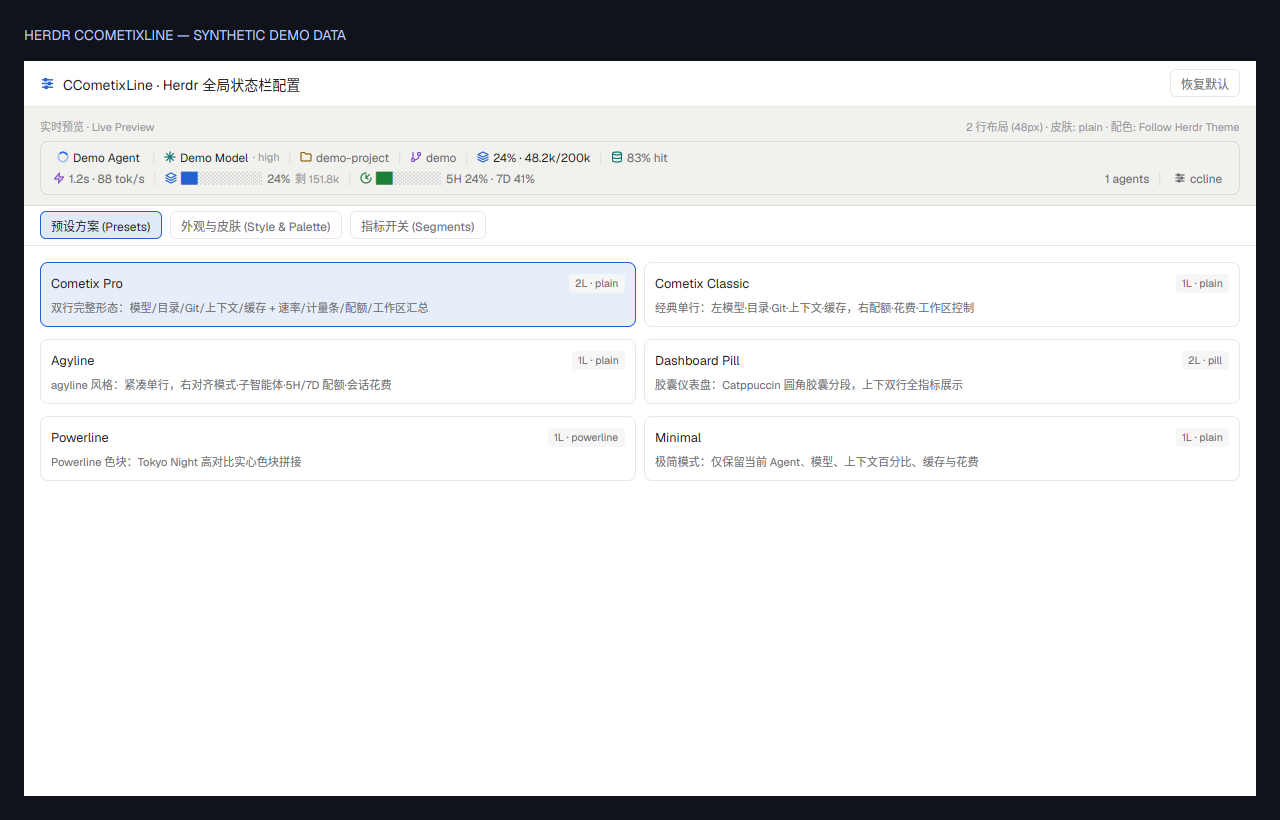
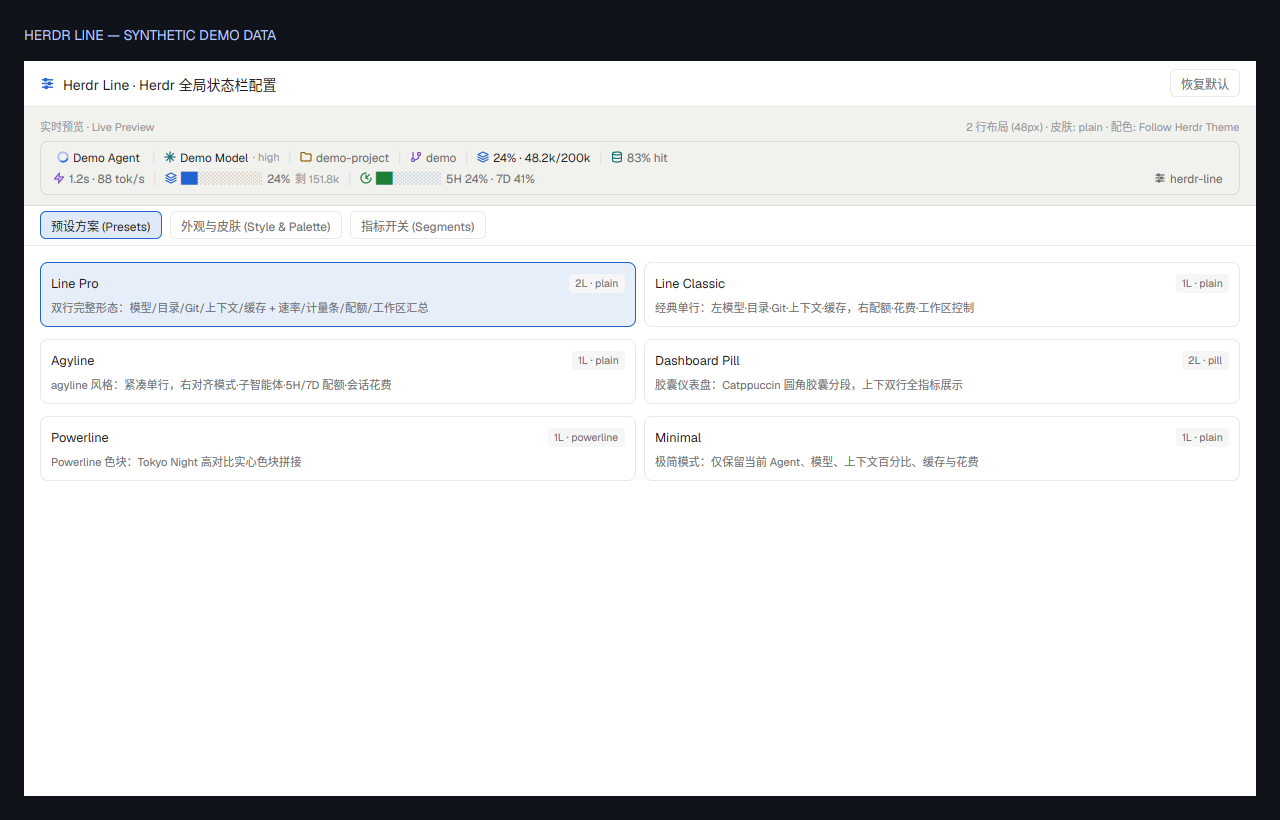
Rebrand as Herdr Line with compatible identifiers and refreshed preview

diff --git a/mods/ccline/main.js b/mods/ccline/main.js
@@ -1,4 +1,4 @@
-// Herdr-native CCometixLine plugin:
+// Herdr-native Herdr Line plugin:
 //   1. Workspace bottom status bar (auto-tracks any active Agent across tabs/panes)
 //   2. Full interactive Configurator & Live Preview dialog (`mod.open { name: "ccline" }`)
 import { View, div, svg, image } from "gpui-kit";
@@ -37,6 +37,7 @@ import {
   buildStatusModel,
 } from "./layout.js";
 
+// Legacy persisted keys and mod ID are retained for existing installations.
 const CONFIG_KEY = "ccline.config";
 const SNAPSHOT_KEY = "ccline.snapshot";
 
@@ -65,7 +66,7 @@ function looksLikeAgent(paneOrTerm) {
   return /(claude|codex|devin|antigravity|\bagy\b|\bpi\b|\bomp\b|grok|cursor|opencode|kiro|aider)/.test(s);
 }
 
-export default class HerdrCcline extends View {
+export default class HerdrLine extends View {
   init(_props, cx) {
     this.widthPx = 1120;
     this.busy = false;
@@ -485,8 +486,8 @@ export default class HerdrCcline extends View {
     const sampleCollected = snap.collected || {
       adapter: "claude-code",
       source: "preview",
-      sessionId: "ccline-live-preview",
-      cwd: `${home()}/herdr-ccline`,
+      sessionId: "herdr-line-demo-preview",
+      cwd: `${home()}/demo-project`,
       model: { id: "claude-opus-5-5[1m]", displayName: "Opus 5.5 1M", effort: "xHigh", family: "claude", window: 1000000 },
       context: { tokens: 142800, window: 1000000, percent: 14.3, inputTokens: 8200, cacheReadTokens: 134600, outputTokens: 1240 },
       cache: { hitRatio: 94.2, warm: true, expiresAt: Date.now() / 1000 + 262 },
@@ -640,7 +641,7 @@ export default class HerdrCcline extends View {
     const paletteRows = [paletteIds.slice(0, 4), paletteIds.slice(4)];
 
     return v_flex()
-      .id("ccline-configurator")
+      .id("herdr-line-configurator")
       .size_full()
       .bg(t.popover || t.background)
       .text_color(t.foreground)
@@ -659,7 +660,7 @@ export default class HerdrCcline extends View {
               .gap(8)
               .items_center()
               .child(svg("mods/ccline/icons/sliders.svg").size(15).text_color(t.accent))
-              .child(div().text_size(14).font_semibold().child("CCometixLine · Herdr 全局状态栏配置"))
+              .child(div().text_size(14).font_semibold().child("Herdr Line · Herdr 全局状态栏配置"))
           )
           .child(
             h_flex()
@@ -830,7 +831,7 @@ export default class HerdrCcline extends View {
     });
 
     return div()
-      .id("herdr-ccline-bar")
+      .id("herdr-line-bar")
       .size_full()
       .on_size_change((size, cx) => {
         const logicalWidth = Math.round(size.width / zoom);

diff --git a/mods/ccline/layout.js b/mods/ccline/layout.js
@@ -1,10 +1,11 @@
-// Pure CCometixLine layout, preset, palette, skin, and responsive fit engine.
+// Pure Herdr Line layout, preset, palette, skin, and responsive fit engine.
+// Visual design inspiration: CCometixLine; persisted preset IDs stay compatible.
 // Zero host-module imports so this module runs identically inside Herdr (gpui-kit) and Node tests.
 
 export const PRESETS = [
   {
     id: "cometix-pro",
-    name: "Cometix Pro",
+    name: "Line Pro",
     lines: 2,
     height: 48,
     skin: "plain",
@@ -14,7 +15,7 @@ export const PRESETS = [
   },
   {
     id: "cometix",
-    name: "Cometix Classic",
+    name: "Line Classic",
     lines: 1,
     height: 30,
     skin: "plain",
@@ -928,9 +929,9 @@ export function buildStatusModel({
       priority: 5,
       icon: "mods/ccline/icons/sliders.svg",
       action: "open-config",
-      tooltip: "打开 CCometixLine 可视化配置器 (预设 / 皮肤 / 配色 / 指标开关)",
+      tooltip: "打开 Herdr Line 可视化配置器 (预设 / 皮肤 / 配色 / 指标开关)",
       variants: [
-        { icon: "mods/ccline/icons/sliders.svg", text: "ccline" },
+        { icon: "mods/ccline/icons/sliders.svg", text: "herdr-line" },
         { icon: "mods/ccline/icons/sliders.svg", text: "" },
         { icon: "mods/ccline/icons/sliders.svg", text: "" },
       ],

diff --git a/extensions/herdr-ccline.ts b/extensions/herdr-ccline.ts
@@ -98,7 +98,7 @@ function publish(ctx: ExtensionContext): void {
   });
 }
 
-export default function herdrCclineExtension(pi: ExtensionAPI): void {
+export default function herdrLineExtension(pi: ExtensionAPI): void {
   if (!VALID_TERMINAL) return;
   const emit = (_event: unknown, ctx: ExtensionContext) => {
     try {

diff --git a/scripts/install.py b/scripts/install.py
@@ -1,5 +1,5 @@
 #!/usr/bin/env python3
-"""Safe whitelist installer for Herdr CCometixLine plugin.
+"""Safe whitelist installer for Herdr Line plugin.
 
 Never modifies Claude/Antigravity/Codex/Devin CLI settings or read-only shipped Herdr layouts.
 Optionally wires a user's personal cloned layout (--activate-layout <name>) with atomic backup.
@@ -194,7 +194,7 @@ def main(argv=None):
             print(f"Private backup saved to: {backup_root}")
         return 0
     except (OSError, ValueError) as exc:
-        print(f"CCometixLine installation refused: {exc}", file=sys.stderr)
+        print(f"Herdr Line installation refused: {exc}", file=sys.stderr)
         return 1
 
 

diff --git a/mods/ccline/collector.py b/mods/ccline/collector.py
@@ -1,5 +1,5 @@
 #!/usr/bin/env python3
-"""Zero-intrusion multi-agent status collector and SWR Git cache for Herdr CCometixLine."""
+"""Zero-intrusion multi-agent status collector and SWR Git cache for Herdr Line."""
 import argparse
 from datetime import datetime
 import json

diff --git a/RECIPE.md b/RECIPE.md
@@ -1,22 +1,26 @@
-![Herdr CCometixLine](preview.png)
+![Herdr Line](preview.png)
 
-# Herdr CCometixLine
+# Herdr Line
 
 预览图由 Herdr 0.1.18 原生渲染本插件的真实配置器组件生成；画面明确标注合成示例数据，无真实聊天、私人路径或会话 ID。[截图来源与限制](docs/preview.md)。Gallery 收录仍需另行确认。
 
-在 Herdr 工作区底部提供统一的 `CCometixLine` / `agyline` 风格全局 CLI 状态栏，并附带原生可视化配置弹窗。保留每个终端窗格原有的顶部标题栏与各自 CLI 配置不变，自动追踪当前活跃的任意编码 Agent（Claude Code、Codex、Antigravity、Devin、Pi、OMP、Grok 及通用终端）。
+在 Herdr 工作区底部提供统一的 Herdr Line 全局 CLI 状态栏，并附带原生可视化配置弹窗。保留每个终端窗格原有的顶部标题栏与各自 CLI 配置不变，自动追踪当前活跃的任意编码 Agent（Claude Code、Codex、Antigravity、Devin、Pi、OMP、Grok 及通用终端）。
 
 ## What you see
 
 - 工作区底部状态栏（双行模式高 48px，单行模式自动缩放至 30px/28px），顶部带 1px 主题边框，背景与文字颜色默认跟随 Herdr 当前主题，也可切换 Catppuccin Mocha、Tokyo Night、Rosé Pine、Dracula、Nord、Gruvbox 调色板。
-- 双行旗舰预设（`Cometix Pro`）：第一行左侧依次显示当前追踪的 Agent 徽章（多 Agent 时显示 `1/N`）、模型家族矢量图标与模型名称/推理档位、目录名、Git 分支/脏状态/超前落后/增删行数、上下文百分比与 Token 数、Prompt Cache 倒计时与命中率；第一行右侧显示运行模式、工作计时/子智能体数与会话花费。第二行左侧显示首字延迟（TTFT）与生成速率（tok/s）、上下文进度条、5H/7D/额度配额条与会话标识；第二行右侧显示工作区机器名与全局 Agent 数（有阻塞时高亮 `! N needs you`）、`ccline` 配置按钮与命令面板快捷键提示。
-- 通过点击底栏 `ccline` 按钮或 `herdr-app do mod.open --name ccline` 打开 780×640 的配置器弹窗：顶部为实时预览卡片，下方分为“预设方案”、“外观与皮肤”、“指标开关”三个标签页，支持一键切换 Plain / Pill / Powerline / Bracket 皮肤、进度条字符集及 16 项指标开关。
+- 双行旗舰预设（`Line Pro`）：第一行左侧依次显示当前追踪的 Agent 徽章（多 Agent 时显示 `1/N`）、模型家族矢量图标与模型名称/推理档位、目录名、Git 分支/脏状态/超前落后/增删行数、上下文百分比与 Token 数、Prompt Cache 倒计时与命中率；第一行右侧显示运行模式、工作计时/子智能体数与会话花费。第二行左侧显示首字延迟（TTFT）与生成速率（tok/s）、上下文进度条、5H/7D/额度配额条与会话标识；第二行右侧显示工作区机器名与全局 Agent 数（有阻塞时高亮 `! N needs you`）、`herdr-line` 配置按钮与命令面板快捷键提示。
+- 通过点击底栏 `herdr-line` 按钮或 `herdr-app do mod.open --name ccline` 打开 780×640 的配置器弹窗：顶部为实时预览卡片，下方分为“预设方案”、“外观与皮肤”、“指标开关”三个标签页，支持一键切换 Plain / Pill / Powerline / Bracket 皮肤、进度条字符集及 16 项指标开关。
 
 ## How it behaves
 
 - 智能跟随：聚焦某个 Agent 窗格时立即显示该 Agent 的上下文状态；若焦点暂时切到同标签页的普通终端或侧边栏，智能保持显示当前标签页或空间内的活跃 Agent。点击左侧 Agent 徽章可在空间内多个 Agent 之间循环切换聚焦；点击 `! N needs you` 直接跳转至等待确认的 Agent。
 - 自适应宽度：通过 `on_size_change` 监听底栏逻辑像素宽度，窗口变窄时按优先级自动从完整文案降级到紧凑文案、极简文案直至隐藏次要项，不遮挡核心指标。
 - 节能刷新：仅在窗口可见（`window()?.visible !== false`）且非 `herdr-app check` 时每 2 秒单次批量采集当前空间的终端；1 秒级 UI 时钟仅在存在 `working` 计时或缓存保温倒计时期间激活，空闲时不产生多余重绘。
+
+## 兼容标识
+
+以下源码路径、mod ID `ccline`、共享键、扩展文件和 `~/.config/herdr-ccline/` 均为保留的 legacy 兼容接口；包/仓库品牌已为 `herdr-line`。详见 [README 改名与旧版兼容](README.md#改名与旧版兼容)，不要自动迁移或删除已有数据。
 
 ## Built from
 
@@ -38,4 +42,4 @@
 1. `npm test` 通过：覆盖模型家族与 `[1m]` 窗口解析、Claude/Codex/Devin/Antigravity/Pi/Grok 被动采集、Git SWR 缓存、布局预设与窄屏自适应折叠，以及安装器干跑/白名单/内置布局保护。
 2. `python3 scripts/install.py --apply --activate-layout main-timers` 成功安装并写入个人克隆布局，不触碰任何 CLI `settings.json`。
 3. `herdr-app check ~/.config/herdr-app/mods/ccline` 零错误通过，`herdr-app status` 中 `errors` 为空。
-4. `herdr-app shot` 实机截图验证：窗格顶部恢复原生 `pane` 标题栏，工作区底部清晰渲染 `CCometixLine` 双行状态栏，且打开配置器弹窗预览与切换正常。
+4. `herdr-app shot` 实机截图验证：窗格顶部恢复原生 `pane` 标题栏，工作区底部清晰渲染 `Herdr Line` 双行状态栏，且打开配置器弹窗预览与切换正常。

diff --git a/README.md b/README.md
@@ -1,6 +1,10 @@
-# Herdr CCometixLine (`herdr-ccline`)
+![Herdr Line](preview.png)
 
-在 **Herdr 层面**实现的统一 `CCometixLine` / `agyline` 风格全局底部状态栏插件与可视化配置器。
+原生组件预览 · 合成示例数据，非真实会话。
+
+# Herdr Line (`herdr-line`)
+
+在 **Herdr 层面**实现的统一全局底部状态栏插件与可视化配置器。
 
 保留每个窗格原本清爽的顶部标题栏不动，在工作区底部固定提供一套高颜值、零侵入的 CLI 上下文状态栏：**无论你在 Herdr 中打开 Claude Code、Codex、Antigravity (`agy`)、Devin、Pi、OMP、Grok 还是其他任意终端 Agent**，都会自动识别并实时展示模型、推理档位、目录、Git 同步与改动、上下文用量与进度条、Prompt Cache 保温倒计时与命中率、TTFT / tok/s、5H/7D/额度配额以及会话成本。
 
@@ -18,13 +22,24 @@
    - **Devin (`devin`)**：通过 `session_locks/*.lock` 与进程父子链（含工具执行子进程）精确匹配 `sessions.db` 中的上下文、缓存、TTFT、tok/s 与 ACU。
    - **Pi / OMP**：同时支持免重启读取 `sessions/*.jsonl` 与通过 `extensions/herdr-ccline.ts` 实时推送。
    - **Grok & 通用终端兜底**：支持 `~/.grok/sessions` 摘要识别；未知未来 CLI 自动优雅降级展示程序图标、工作计时、子智能体与非阻塞 SWR Git 状态（`GIT_OPTIONAL_LOCKS=0`，绝不锁索引）。
-3. **还原 `CCometixLine` 视觉体系与实时配置器**
-   - **6 套内置预设**：`Cometix Pro`（双行 48px）、`Cometix Classic`（单行 30px）、`Agyline`、`Dashboard Pill`、`Powerline`、`Minimal`，切换预设时自动联动调整 Herdr 底栏高度。
+3. **Herdr Line 视觉体系与实时配置器**
+   - **6 套内置预设**：`Line Pro`（双行 48px）、`Line Classic`（单行 30px）、`Agyline`、`Dashboard Pill`、`Powerline`、`Minimal`，切换预设时自动联动调整 Herdr 底栏高度。
    - **4 种分段皮肤**：`Plain │`、`Pill 胶囊`、`Powerline 色块`、`[Bracket]`。
    - **7 套主题调色板**：默认跟随当前 Herdr 主题（明暗自适应），内置 `Catppuccin Mocha`、`Tokyo Night`、`Rosé Pine`、`Dracula`、`Nord`、`Gruvbox`。
-   - **内置可视化配置弹窗**：点击底栏右侧 `ccline` 按钮、命令面板搜索 `CCometixLine`，或执行 `herdr-app do mod.open --name ccline` 即可边看实时预览边调整。
+   - **内置可视化配置弹窗**：点击底栏右侧 `herdr-line` 按钮、命令面板搜索 `Herdr Line`，或执行 `herdr-app do mod.open --name ccline` 即可边看实时预览边调整。
 
 ---
+
+## 改名与旧版兼容
+
+仓库和 npm 包现名为 **herdr-line**，界面显示 **Herdr Line**。为保证已安装用户的布局、快捷键、缓存和设置继续工作，以下 legacy 标识刻意保持不变，**不是旧产品显示名**：
+
+- Herdr 内部 mod ID / 安装目录：`ccline` / `mods/ccline/`；打开命令仍为 `herdr-app do mod.open --name ccline`。
+- Pi 扩展安装文件：`extensions/herdr-ccline.ts`。不要再另装一份改名扩展，以免重复采集。
+- 默认运行数据及备份目录：`~/.config/herdr-ccline/`；已有覆盖变量 `HERDR_CCLINE_HOME` 继续有效。此次不移动、清理或迁移用户数据。
+- 持久化共享键：`ccline.config`、`ccline.snapshot`；预设 ID `cometix-pro` / `cometix` 仍有效，对应显示名改为 Line Pro / Line Classic。
+
+仓库新地址：https://github.com/shentry/herdr-line 。已有 Git 克隆可用 `git remote set-url origin https://github.com/shentry/herdr-line.git` 更新地址；不需要重新安装或改动个人布局。
 
 ## 安装与激活
 
@@ -57,7 +72,7 @@ herdr-app do mod.open --name ccline
 ## 目录结构
 
 ```text
-herdr-ccline/
+herdr-line/
 ├── mods/ccline/
 │   ├── main.js          # GPUI 底栏视图 + 交互式配置器弹窗
 │   ├── layout.js        # 预设、皮肤、配色、进度条与宽度自适应折叠引擎
@@ -88,3 +103,7 @@ herdr-app check ~/.config/herdr-app/mods/ccline
 按 [MIT License](LICENSE) 发布，版权声明为 2026 shentry。
 
 已提供由 Herdr 原生渲染真实配置器组件的合成数据预览 [preview.png](preview.png)，不是绘制的产品示意图。[截图来源与限制](docs/preview.md)。Gallery 收录与实际客户端端到端验收仍需另行确认。
+
+## 设计参考与致谢
+
+原始视觉设计参考 CCometixLine 与 agyline；更名为 Herdr Line 不移除这一设计来源说明。原有许可证及版权声明保持不变。

diff --git a/docs/preview.md b/docs/preview.md
@@ -9,6 +9,8 @@
 - 临时 demo wrapper 继承本插件，直接调用 `mods/ccline/main.js` 的原始 `renderConfigurator()`，以及未修改的 `layout.js`。**产品组件源码保持逐字节一致**；wrapper 只注入合成状态、禁用真实采集/轮询，并加上 “SYNTHETIC DEMO DATA” 标识。
 - 通过官方 `herdr-app check` 检查原插件和 wrapper，再用 `herdr-app shot preview.png` 导出原生渲染帧；不是桌面/浏览器自动截图。
 
+Herdr Line 的截图已在更名后重新原生渲染，界面、预设名称及标题均使用新品牌。文中的 `mods/ccline/` 是保留的 legacy 安装标识，详见 README 的兼容说明。
+
 ## 示例数据
 
 全部名称、终端编号、token/配额/性能数值和桥接状态均为人为构造的演示 fixture。截图不含真实聊天、私人绝对路径或实际会话 ID；`t1` / `t2` 等仅为合成终端示例，不是用户会话。
